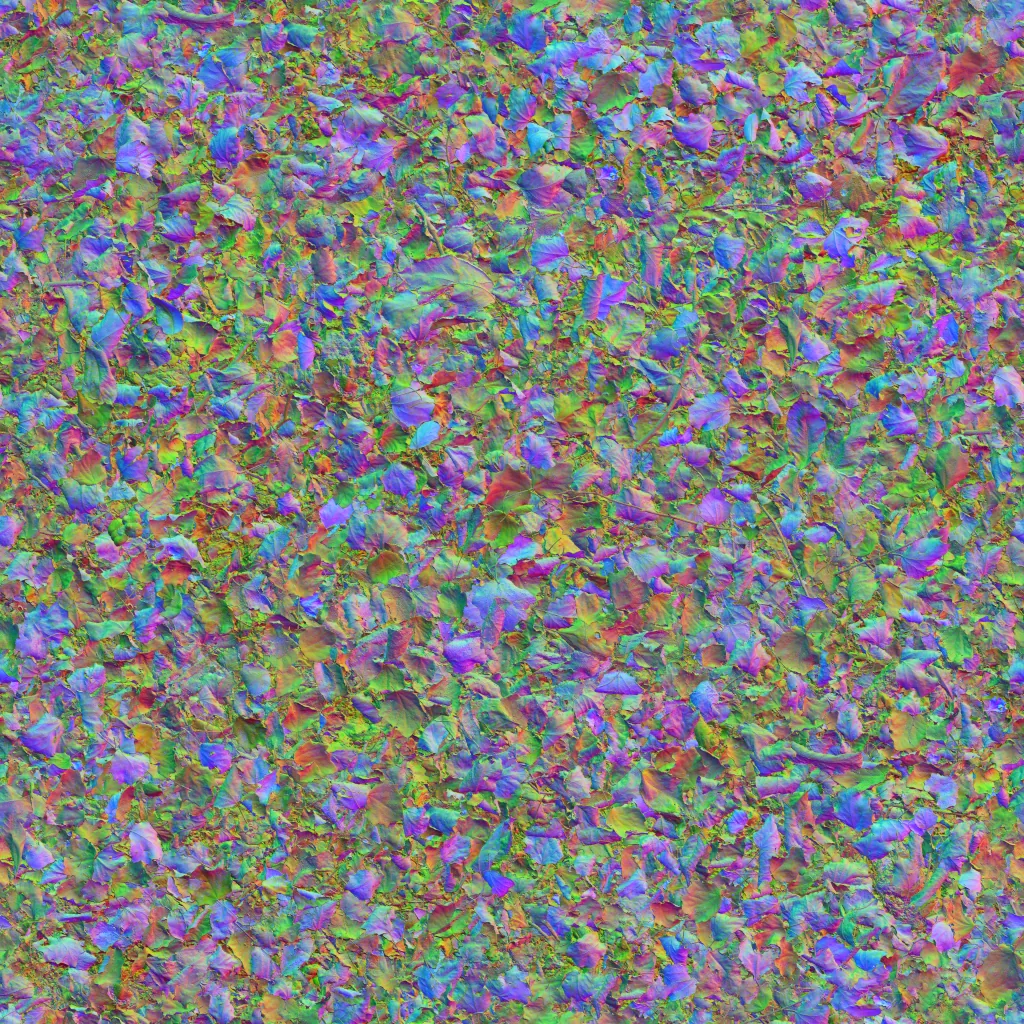
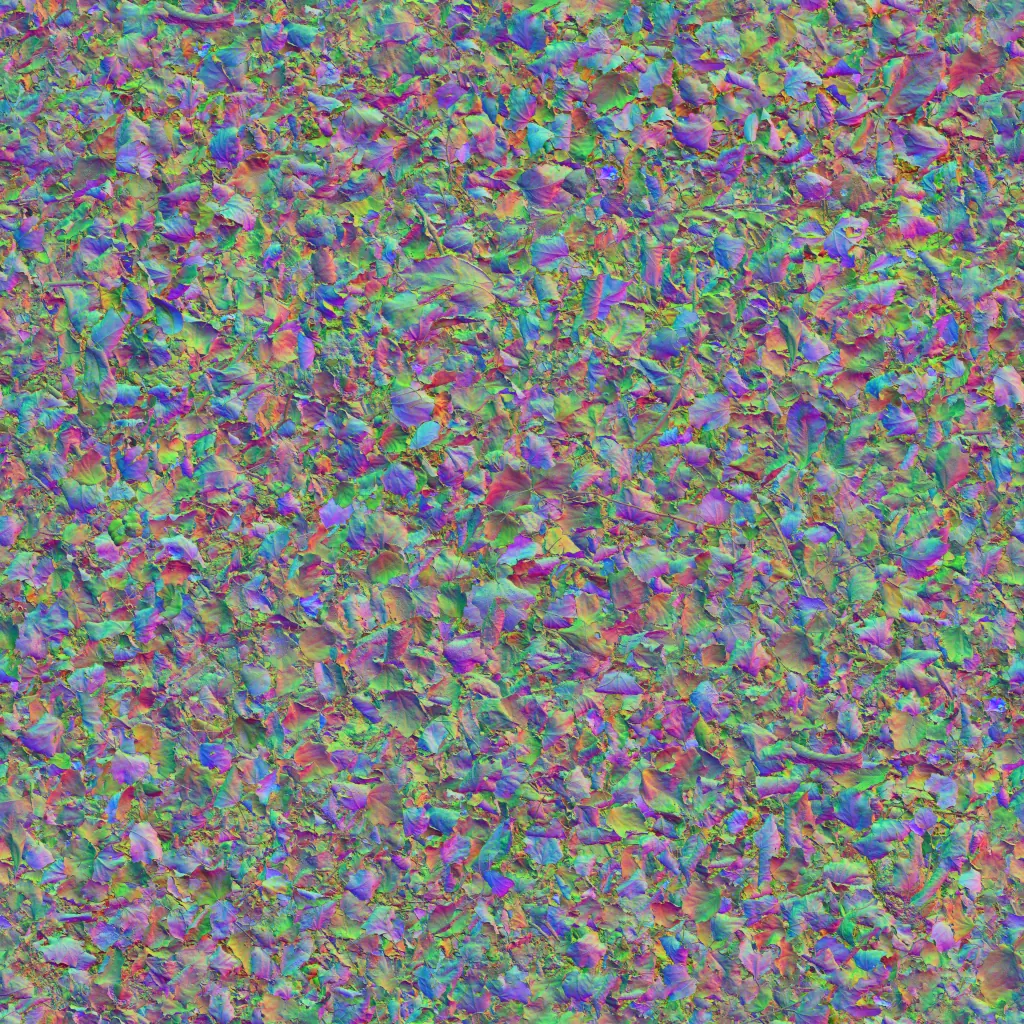
WIP 3D scene: high-passed ground detail, clearer refracting water, credits

diff --git a/species/3d/nature.js b/species/3d/nature.js
@@ -884,8 +884,8 @@ export function water(THREE, mesh, o = {}) {
     uDep: { value: null }, uDepK: { value: 0 }, uDepBox: { value: new THREE.Vector4(0, 0, 1, 1) } };
   const refract = !!o.refract;
   if (refract) { // (still flagged transparent: the rest of the viewer finds the water by that)
-    m.transmission = 1; m.ior = 1.333; m.thickness = o.thick || 0.15; m.attenuationColor = m.color.clone().lerp(new THREE.Color('#1d3b2c'), 0.3); m.attenuationDistance = o.clarity || 0.28;
-    m.color.lerp(new THREE.Color('#ffffff'), 0.55); m.roughness = Math.min(m.roughness, 0.06); m.opacity = 1; m.specularIntensity = 1;
+    m.transmission = 1; m.ior = 1.333; m.thickness = o.thick || 0.05; m.attenuationColor = m.color.clone().lerp(new THREE.Color('#c4dccd'), 0.72); m.attenuationDistance = o.clarity || 0.45;
+    m.color.lerp(new THREE.Color('#ffffff'), 0.78); m.roughness = Math.min(m.roughness, 0.06); m.opacity = 1; m.specularIntensity = 1;
   }
   if (o.bed && o.size) { // the water's depth over the bank, 128 x 128 over the water plane (metres, 0.25 m = full)
     const n = 128, d = new Uint8Array(n * n * 4), y0 = mesh.position.y, h = o.size / 2;
@@ -1105,7 +1105,7 @@ export function perchTree(THREE, opt) {
 // shading (its brightness, around 1), while the colours stay the habitat's own. It is sampled twice at different sizes
 // and angles (so no repeating tile shows), fades out with distance (none of it far away, where it would only shimmer),
 // and loads after the scene is up (until then the ground looks as before). One 1024 px image per kind of ground.
-const DETAIL = { litter: 1.26, soil: 1.3, gravel: 2.0, heath: 2.0, pebbles: 2.16, dry: 1.3, sand: 1.8, gibber: 1.5, rock: 1.5 }; // its real width in metres
+const DETAIL = { litter: 1.26, soil: 1.3, gravel: 2.0, heath: 2.0, pebbles: 2.04, dry: 1.3, sand: 1.8, gibber: 1.5, rock: 1.5 }; // its real width in metres
 const detailImg = {};
 export function groundDetail(THREE, mat, kind, ctx, o = {}) {
   const size = DETAIL[kind]; if (!size || typeof Image === 'undefined') return;

diff --git a/species/3d/viewer.js b/species/3d/viewer.js
@@ -2314,7 +2314,7 @@ function buildScene(ctx, P, F, body, poseInfo, seed, quality) {
     wm.normalMap.repeat.set(groundR * 2 / 2.4, groundR * 2 / 2.4); // v5.50: ripples at their real size (repeating every 2.4 m)
     const wg = new THREE.RingGeometry(0, groundR, 96, quality === 'low' ? 18 : 40); wg.rotateX(-Math.PI / 2);
     const water = new THREE.Mesh(wg, wm); water.position.y = poseInfo.seaLevel; water.receiveShadow = true; water.renderOrder = 2; scene.add(water);
-    if (NATURE.water) NATURE.water(THREE, water, { swell: 0.006, calmR: Rb * 1.1, drift: 0.035, refract: quality !== 'low', clarity: 0.6 }); // v5.73: a gentle swell and moving ripples on the sea (v5.83: refraction)
+    if (NATURE.water) NATURE.water(THREE, water, { swell: 0.006, calmR: Rb * 1.1, drift: 0.035, refract: quality !== 'low', clarity: 0.9 }); // v5.73: a gentle swell and moving ripples on the sea (v5.83: refraction)
     const deep = new THREE.Mesh(new THREE.CircleGeometry(groundR, 64).rotateX(-Math.PI / 2), new THREE.MeshBasicMaterial({ color: '#0f2f3d' }));
     deep.position.y = -1.5; scene.add(deep);
   }

diff --git a/tools/ground_detail.py b/tools/ground_detail.py
@@ -2,15 +2,15 @@
 # Makes the 3D viewer's close-up ground detail (species/3d/env/detail-<ground>.webp) from Poly Haven textures (CC0 1.0,
 # https://polyhaven.com): for each kind of ground one photographed surface - its 1k colour map and its OpenGL normal map -
 # packed into one 1024 px image: red and green = the normal's x and y, blue = the colour's brightness around its mean
-# (0.5 = average). viewer.js keeps the habitat's own colours and only takes the fine detail from it, close to the camera.
+# (high-passed; 0.5 = no change). viewer.js keeps the habitat's own colours and only takes the fine detail from it, close to the camera.
 # Run (dev only, needs network): python3 tools/ground_detail.py
 import io, os, json, urllib.request
-from PIL import Image, ImageStat
+from PIL import Image, ImageStat, ImageFilter, ImageChops
 OUT = os.path.join(os.path.dirname(os.path.abspath(__file__)), '..', 'species', '3d', 'env')
 # ground kind (models.json scene.ground) -> Poly Haven texture; its real width is in CREDITS.txt and viewer.js DETAIL
 KINDS = {
     'litter': 'leaves_forest_ground', 'soil': 'brown_mud_leaves_01', 'gravel': 'red_laterite_soil_stones',
-    'heath': 'forrest_ground_01', 'pebbles': 'ganges_river_pebbles', 'dry': 'brown_mud_dry', 'sand': 'dense_sand',
+    'heath': 'forrest_ground_01', 'pebbles': 'damp_sand', 'dry': 'brown_mud_dry', 'sand': 'dense_sand',
     'gibber': 'red_mud_stones', 'rock': 'rock_04',
 }
 def get(u): return urllib.request.urlopen(urllib.request.Request(u, headers={'User-Agent': 'texture-fetch'}), timeout=120).read()
@@ -20,8 +20,10 @@ for kind, name in KINDS.items():
     files = json.loads(get('https://api.polyhaven.com/files/' + name))
     diff = Image.open(io.BytesIO(get(files['Diffuse']['1k']['jpg']['url']))).convert('L').resize((1024, 1024), Image.LANCZOS)
     nor = Image.open(io.BytesIO(get(files['nor_gl']['1k']['jpg']['url']))).convert('RGB').resize((1024, 1024), Image.LANCZOS)
-    mean = ImageStat.Stat(diff).mean[0] or 1
-    lum = diff.point(lambda v: max(0, min(255, int(round(128 * v / mean)))))
+    # only the fine detail (a high-pass: the brightness against its own blur over ~3 cm), so no big blotches fight the
+    # habitat's painted ground; 128 = no change
+    blur = diff.filter(ImageFilter.GaussianBlur(20))
+    lum = Image.eval(ImageChops.subtract(diff, blur, 1.0, 128), lambda v: max(0, min(255, int(round(128 + (v - 128) * 1.15)))))
     r, g, _ = nor.split()
     Image.merge('RGB', (r, g, lum)).save(os.path.join(OUT, 'detail-' + kind + '.webp'), 'WEBP', quality=78, method=6)
     print(kind, name, os.path.getsize(os.path.join(OUT, 'detail-' + kind + '.webp')))
